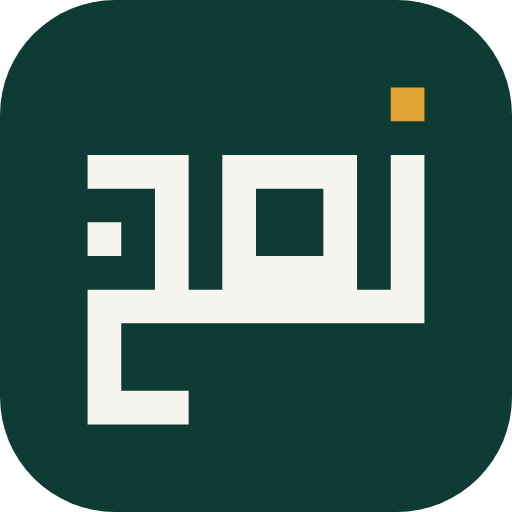
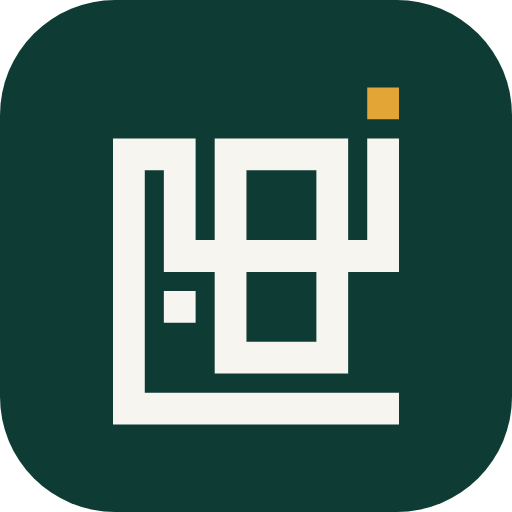
صقل الشعار: «نهج» الكوفي بالنموذج المعتمد (الجيم بذيل ممتد)
- شبكة ١١×١٣: هاء بعروتين، جيم برأس ونقطة وذيل يمتد تحت الكلمة كلها
- خطوط أعرض من الفراغات (٥:٣) ليبقى واضحاً في الأحجام الصغيرة
- brand/kufic.cjs مصدر مشترك لسكربتات الأيقونات ودليل الهوية
- إعادة توليد الأيقونات وملفات الهوية وتحديث الدليل والتوثيق

Claude-Session: https://claude.ai/code/session_01MuGSspZaMVLLvinGE7R1ud

Changed region(s): [[0.1562, 0.1562, 0.8438, 0.8438]]

diff --git a/brand/guide.html b/brand/guide.html
@@ -80,7 +80,7 @@ footer { padding-block: 32px 48px; border-top: 1px solid var(--line); color: var
 </style>
 
 <header class="hero"><div class="wrap">
-  <svg viewBox="0 0 146.7 64" class="lockup"><g transform="translate(0 2.6) scale(0.5888)"><path d="M0.23 46.28 1.02 47.06C4.54 46.2 6.66 45.73 11.35 45.73C14.96 45.73 18.4 45.97 21.61 46.36C8.69 51.84 0 60.69 0 73.69C0 91.39 15.97 100 30.62 100L49.33 87.86V86.3H31.71C13 86.3 1.64 82.69 1.64 73.77C1.64 62.65 19.26 52.08 37.12 49.1C36.18 52.15 35.4 55.91 35.4 59.83C35.4 68.99 39.78 73.3 50.04 73.3C52.55 73.3 53.88 71.97 53.88 69.46V58.5C44.48 58.5 39.78 57.56 39.31 51.37C39.31 50.67 39.31 49.8 39.31 48.79C41.27 48.55 43.15 48.39 45.11 48.32L47.69 39.08L47.22 38.06H41.66C28.03 38.06 19.5 32.18 11.98 32.18C8.14 32.18 4.93 33.75 2.51 36.49ZM30.07 71.65C30.15 71.57 30.15 70.4 30.07 70.32L22.47 62.73L14.8 70.4V71.57L22.47 79.25ZM53.95 58.5C51.45 58.5 50.12 59.83 50.12 62.33V73.3C52.39 73.3 54.5 73.06 56.54 72.67C57.71 81.68 62.1 88.72 71.42 88.72C80.19 88.72 84.65 82.22 84.26 73.3C86.77 73.3 88.1 71.97 88.1 69.46V58.5C85.9 58.5 81.21 58.26 77.29 57.95C79.33 54.19 80.5 50.2 80.5 46.2C80.5 37.67 77.53 34.77 67.27 31.48L65.31 32.5L57.01 58.42C56.15 58.5 55.21 58.5 54.35 58.5ZM59.04 58.26 63.51 44.79C67.97 46.05 78.62 49.1 78.62 51.21C78.62 52.78 71.03 57.32 59.04 58.26ZM69.07 67.19C78.15 69.15 81.52 71.1 83.24 73.61C82.3 74.08 78 75.18 73.45 75.18C68.36 75.18 63.9 73.84 61.08 71.42C64.06 70.4 66.72 68.91 69.07 67.19ZM100 4.07C100.55 3.92 100.94 3.6 101.25 3.21L103.29 0.39L102.98 0L88.8 4.31C88.25 4.46 87.86 4.78 87.47 5.09L85.59 7.36L85.83 7.67ZM84.34 73.3C88.57 73.3 94.44 71.97 98.9 69.38L102.82 58.89C104.07 55.6 104.7 52.39 104.62 49.18L106.42 44.95L99.53 35.16H97.96L92.48 48.16C96.01 50.74 99.92 54.5 102.11 57.24C97.96 58.03 92.87 58.5 88.18 58.5C85.67 58.5 84.34 59.83 84.34 62.33ZM102.19 22.4C102.27 22.32 102.27 21.14 102.19 21.06L94.6 13.47L86.92 21.14V22.32L94.6 29.99Z" fill="#FFFFFF"/></g><g transform="translate(82.7 0) scale(6.4)"><path d="M0 2h3v1h-3zM4 2h4v1h-4zM9 2h1v1h-1zM2 3h1v1h-1zM4 3h1v1h-1zM7 3h1v1h-1zM9 3h1v1h-1zM0 4h1v1h-1zM2 4h1v1h-1zM4 4h1v1h-1zM7 4h1v1h-1zM9 4h1v1h-1zM2 5h1v1h-1zM4 5h4v1h-4zM9 5h1v1h-1zM0 6h10v1h-10zM0 7h1v1h-1zM0 8h1v1h-1zM0 9h3v1h-3z" fill="#FFFFFF"/><path d="M9 0h1v1h-1z" fill="#E3A535"/></g></svg>
+  <svg viewBox="0 0 146.7 64" class="lockup"><g transform="translate(0 2.6) scale(0.5888)"><path d="M0.23 46.28 1.02 47.06C4.54 46.2 6.66 45.73 11.35 45.73C14.96 45.73 18.4 45.97 21.61 46.36C8.69 51.84 0 60.69 0 73.69C0 91.39 15.97 100 30.62 100L49.33 87.86V86.3H31.71C13 86.3 1.64 82.69 1.64 73.77C1.64 62.65 19.26 52.08 37.12 49.1C36.18 52.15 35.4 55.91 35.4 59.83C35.4 68.99 39.78 73.3 50.04 73.3C52.55 73.3 53.88 71.97 53.88 69.46V58.5C44.48 58.5 39.78 57.56 39.31 51.37C39.31 50.67 39.31 49.8 39.31 48.79C41.27 48.55 43.15 48.39 45.11 48.32L47.69 39.08L47.22 38.06H41.66C28.03 38.06 19.5 32.18 11.98 32.18C8.14 32.18 4.93 33.75 2.51 36.49ZM30.07 71.65C30.15 71.57 30.15 70.4 30.07 70.32L22.47 62.73L14.8 70.4V71.57L22.47 79.25ZM53.95 58.5C51.45 58.5 50.12 59.83 50.12 62.33V73.3C52.39 73.3 54.5 73.06 56.54 72.67C57.71 81.68 62.1 88.72 71.42 88.72C80.19 88.72 84.65 82.22 84.26 73.3C86.77 73.3 88.1 71.97 88.1 69.46V58.5C85.9 58.5 81.21 58.26 77.29 57.95C79.33 54.19 80.5 50.2 80.5 46.2C80.5 37.67 77.53 34.77 67.27 31.48L65.31 32.5L57.01 58.42C56.15 58.5 55.21 58.5 54.35 58.5ZM59.04 58.26 63.51 44.79C67.97 46.05 78.62 49.1 78.62 51.21C78.62 52.78 71.03 57.32 59.04 58.26ZM69.07 67.19C78.15 69.15 81.52 71.1 83.24 73.61C82.3 74.08 78 75.18 73.45 75.18C68.36 75.18 63.9 73.84 61.08 71.42C64.06 70.4 66.72 68.91 69.07 67.19ZM100 4.07C100.55 3.92 100.94 3.6 101.25 3.21L103.29 0.39L102.98 0L88.8 4.31C88.25 4.46 87.86 4.78 87.47 5.09L85.59 7.36L85.83 7.67ZM84.34 73.3C88.57 73.3 94.44 71.97 98.9 69.38L102.82 58.89C104.07 55.6 104.7 52.39 104.62 49.18L106.42 44.95L99.53 35.16H97.96L92.48 48.16C96.01 50.74 99.92 54.5 102.11 57.24C97.96 58.03 92.87 58.5 88.18 58.5C85.67 58.5 84.34 59.83 84.34 62.33ZM102.19 22.4C102.27 22.32 102.27 21.14 102.19 21.06L94.6 13.47L86.92 21.14V22.32L94.6 29.99Z" fill="#FFFFFF"/></g><g transform="translate(82.7 0) scale(6.4)"><path d="M0.7547 1.5094H3.2075V2.4528H0.7547zM3.7736 1.5094H7.7358V2.4528H3.7736zM8.3019 1.5094H9.2453V2.4528H8.3019zM0.7547 2.4528H1.6981V3.0189H0.7547zM2.2642 2.4528H3.2075V3.0189H2.2642zM3.7736 2.4528H4.717V3.0189H3.7736zM6.7925 2.4528H7.7358V3.0189H6.7925zM8.3019 2.4528H9.2453V3.0189H8.3019zM0.7547 3.0189H1.6981V3.9623H0.7547zM2.2642 3.0189H3.2075V3.9623H2.2642zM3.7736 3.0189H4.717V3.9623H3.7736zM6.7925 3.0189H7.7358V3.9623H6.7925zM8.3019 3.0189H9.2453V3.9623H8.3019zM0.7547 3.9623H1.6981V4.5283H0.7547zM2.2642 3.9623H3.2075V4.5283H2.2642zM3.7736 3.9623H4.717V4.5283H3.7736zM6.7925 3.9623H7.7358V4.5283H6.7925zM8.3019 3.9623H9.2453V4.5283H8.3019zM0.7547 4.5283H1.6981V5.4717H0.7547zM2.2642 4.5283H9.2453V5.4717H2.2642zM0.7547 5.4717H1.6981V6.0377H0.7547zM3.7736 5.4717H4.717V6.0377H3.7736zM6.7925 5.4717H7.7358V6.0377H6.7925zM0.7547 6.0377H1.6981V6.9811H0.7547zM2.2642 6.0377H3.2075V6.9811H2.2642zM3.7736 6.0377H4.717V6.9811H3.7736zM6.7925 6.0377H7.7358V6.9811H6.7925zM0.7547 6.9811H1.6981V7.5472H0.7547zM3.7736 6.9811H4.717V7.5472H3.7736zM6.7925 6.9811H7.7358V7.5472H6.7925zM0.7547 7.5472H1.6981V8.4906H0.7547zM3.7736 7.5472H7.7358V8.4906H3.7736zM0.7547 8.4906H1.6981V9.0566H0.7547zM0.7547 9.0566H9.2453V10H0.7547z" fill="#FFFFFF"/><path d="M8.3019 0H9.2453V0.9434H8.3019z" fill="#E3A535"/></g></svg>
   <div class="tag">التدريس <span>بنهجٍ أذكى.</span></div>
   <p>دليل الهوية البصرية لتطبيق «نَهج»، رفيق المدرّس العراقي: الصفوف والطلاب، سجلات الدرجات، الحضور، الجدول، دفتر التحضير، والطباعة الرسمية.</p>
 </div></header>
@@ -94,12 +94,12 @@ footer { padding-block: 32px 48px; border-top: 1px solid var(--line); color: var
   <section>
     <h2>الرمز</h2>
     <div class="anatomy">
-      <div class="big"><svg viewBox="-0.8 -0.8 11.6 11.6" class="gridmark"><path d="M0 0V10M0 0H10" stroke="var(--line)" stroke-width="0.04"/><path d="M1 0V10M0 1H10" stroke="var(--line)" stroke-width="0.04"/><path d="M2 0V10M0 2H10" stroke="var(--line)" stroke-width="0.04"/><path d="M3 0V10M0 3H10" stroke="var(--line)" stroke-width="0.04"/><path d="M4 0V10M0 4H10" stroke="var(--line)" stroke-width="0.04"/><path d="M5 0V10M0 5H10" stroke="var(--line)" stroke-width="0.04"/><path d="M6 0V10M0 6H10" stroke="var(--line)" stroke-width="0.04"/><path d="M7 0V10M0 7H10" stroke="var(--line)" stroke-width="0.04"/><path d="M8 0V10M0 8H10" stroke="var(--line)" stroke-width="0.04"/><path d="M9 0V10M0 9H10" stroke="var(--line)" stroke-width="0.04"/><path d="M10 0V10M0 10H10" stroke="var(--line)" stroke-width="0.04"/><path d="M0 2h3v1h-3zM4 2h4v1h-4zM9 2h1v1h-1zM2 3h1v1h-1zM4 3h1v1h-1zM7 3h1v1h-1zM9 3h1v1h-1zM0 4h1v1h-1zM2 4h1v1h-1zM4 4h1v1h-1zM7 4h1v1h-1zM9 4h1v1h-1zM2 5h1v1h-1zM4 5h4v1h-4zM9 5h1v1h-1zM0 6h10v1h-10zM0 7h1v1h-1zM0 8h1v1h-1zM0 9h3v1h-3z" fill="var(--ink)" opacity=".92"/><path d="M9 0h1v1h-1z" fill="#E3A535"/>
-  <path d="M-0.4 6.5H10.4" stroke="#E3A535" stroke-width="0.08" stroke-dasharray="0.25 0.18"/></svg></div>
+      <div class="big"><svg viewBox="-0.8 -0.8 11.6 11.6" class="gridmark"><path d="M0.7547 0V10" stroke="var(--line)" stroke-width="0.04"/><path d="M1.6981 0V10" stroke="var(--line)" stroke-width="0.04"/><path d="M2.2642 0V10" stroke="var(--line)" stroke-width="0.04"/><path d="M3.2075 0V10" stroke="var(--line)" stroke-width="0.04"/><path d="M3.7736 0V10" stroke="var(--line)" stroke-width="0.04"/><path d="M4.717 0V10" stroke="var(--line)" stroke-width="0.04"/><path d="M5.283 0V10" stroke="var(--line)" stroke-width="0.04"/><path d="M6.2264 0V10" stroke="var(--line)" stroke-width="0.04"/><path d="M6.7925 0V10" stroke="var(--line)" stroke-width="0.04"/><path d="M7.7358 0V10" stroke="var(--line)" stroke-width="0.04"/><path d="M8.3019 0V10" stroke="var(--line)" stroke-width="0.04"/><path d="M9.2453 0V10" stroke="var(--line)" stroke-width="0.04"/><path d="M0.7547 0H9.2453" stroke="var(--line)" stroke-width="0.04"/><path d="M0.7547 0.9434H9.2453" stroke="var(--line)" stroke-width="0.04"/><path d="M0.7547 1.5094H9.2453" stroke="var(--line)" stroke-width="0.04"/><path d="M0.7547 2.4528H9.2453" stroke="var(--line)" stroke-width="0.04"/><path d="M0.7547 3.0189H9.2453" stroke="var(--line)" stroke-width="0.04"/><path d="M0.7547 3.9623H9.2453" stroke="var(--line)" stroke-width="0.04"/><path d="M0.7547 4.5283H9.2453" stroke="var(--line)" stroke-width="0.04"/><path d="M0.7547 5.4717H9.2453" stroke="var(--line)" stroke-width="0.04"/><path d="M0.7547 6.0377H9.2453" stroke="var(--line)" stroke-width="0.04"/><path d="M0.7547 6.9811H9.2453" stroke="var(--line)" stroke-width="0.04"/><path d="M0.7547 7.5472H9.2453" stroke="var(--line)" stroke-width="0.04"/><path d="M0.7547 8.4906H9.2453" stroke="var(--line)" stroke-width="0.04"/><path d="M0.7547 9.0566H9.2453" stroke="var(--line)" stroke-width="0.04"/><path d="M0.7547 10H9.2453" stroke="var(--line)" stroke-width="0.04"/><path d="M0.7547 1.5094H3.2075V2.4528H0.7547zM3.7736 1.5094H7.7358V2.4528H3.7736zM8.3019 1.5094H9.2453V2.4528H8.3019zM0.7547 2.4528H1.6981V3.0189H0.7547zM2.2642 2.4528H3.2075V3.0189H2.2642zM3.7736 2.4528H4.717V3.0189H3.7736zM6.7925 2.4528H7.7358V3.0189H6.7925zM8.3019 2.4528H9.2453V3.0189H8.3019zM0.7547 3.0189H1.6981V3.9623H0.7547zM2.2642 3.0189H3.2075V3.9623H2.2642zM3.7736 3.0189H4.717V3.9623H3.7736zM6.7925 3.0189H7.7358V3.9623H6.7925zM8.3019 3.0189H9.2453V3.9623H8.3019zM0.7547 3.9623H1.6981V4.5283H0.7547zM2.2642 3.9623H3.2075V4.5283H2.2642zM3.7736 3.9623H4.717V4.5283H3.7736zM6.7925 3.9623H7.7358V4.5283H6.7925zM8.3019 3.9623H9.2453V4.5283H8.3019zM0.7547 4.5283H1.6981V5.4717H0.7547zM2.2642 4.5283H9.2453V5.4717H2.2642zM0.7547 5.4717H1.6981V6.0377H0.7547zM3.7736 5.4717H4.717V6.0377H3.7736zM6.7925 5.4717H7.7358V6.0377H6.7925zM0.7547 6.0377H1.6981V6.9811H0.7547zM2.2642 6.0377H3.2075V6.9811H2.2642zM3.7736 6.0377H4.717V6.9811H3.7736zM6.7925 6.0377H7.7358V6.9811H6.7925zM0.7547 6.9811H1.6981V7.5472H0.7547zM3.7736 6.9811H4.717V7.5472H3.7736zM6.7925 6.9811H7.7358V7.5472H6.7925zM0.7547 7.5472H1.6981V8.4906H0.7547zM3.7736 7.5472H7.7358V8.4906H3.7736zM0.7547 8.4906H1.6981V9.0566H0.7547zM0.7547 9.0566H9.2453V10H0.7547z" fill="var(--ink)" opacity=".92"/><path d="M8.3019 0H9.2453V0.9434H8.3019z" fill="#E3A535"/>
+  <path d="M0.3547 5H9.6453M0.3547 9.5283H9.6453" stroke="#E3A535" stroke-width="0.08" stroke-dasharray="0.25 0.18"/></svg></div>
       <ol>
         <li><b>١</b><div><strong>الخط الكوفي — من العراق</strong>وُلد الخط الكوفي في الكوفة، أقدم خطوط العربية. شعار تطبيق عراقي بخط عراقي الأصل.</div></li>
-        <li><b>٢</b><div><strong>الكلمة كاملة على شبكة</strong>«نهج» بالكوفي المربّع على شبكة ١٠×١٠ — مثل سجل الدرجات وجدول الحصص: كل حرف في خانته، وكل شيء في مكانه.</div></li>
-        <li><b>٣</b><div><strong>خط القاعدة هو النهج</strong>الخط الممتد تحت الحروف الثلاثة (المنقّط بالذهبي في الرسم) يربطها في سطر واحد: الطريق الذي يجمع عمل المدرّس كله.</div></li>
+        <li><b>٢</b><div><strong>الكلمة كاملة على شبكة</strong>«نهج» بالكوفي المربّع على شبكة ١١×١٣ — مثل سجل الدرجات وجدول الحصص: كل حرف في خانته. النون قائمة، والهاء بعروتين فوق القاعدة وتحتها، والجيم برأسها ونقطتها وذيل يمتد تحت الكلمة كلها. الخطوط أعرض من الفراغات (٥ إلى ٣) فيبقى الرمز واضحاً حتى في أصغر أيقونة.</div></li>
+        <li><b>٣</b><div><strong>خط القاعدة هو النهج</strong>خطّا القاعدة (المنقّطان بالذهبي في الرسم): الأول يربط الحروف الثلاثة في سطر واحد، والثاني ذيل الجيم يحمل الكلمة كلها: الطريق الذي يجمع عمل المدرّس كله.</div></li>
         <li><b>٤</b><div><strong>خلية ذهبية واحدة</strong>نقطة النون هي الخانة الوحيدة المضيئة في الشبكة — الدرجة التي تُكتب، والحصة الحاضرة. وهي توقيع الهوية كلها: في الأيقونات وقبل العناوين.</div></li>
       </ol>
     </div>
@@ -108,10 +108,10 @@ footer { padding-block: 32px 48px; border-top: 1px solid var(--line); color: var
   <section>
     <h2>الشعار</h2>
     <div class="logos">
-      <div class="logo-tile t-paper"><svg viewBox="0 0 146.7 64" class="lockup"><g transform="translate(0 2.6) scale(0.5888)"><path d="M0.23 46.28 1.02 47.06C4.54 46.2 6.66 45.73 11.35 45.73C14.96 45.73 18.4 45.97 21.61 46.36C8.69 51.84 0 60.69 0 73.69C0 91.39 15.97 100 30.62 100L49.33 87.86V86.3H31.71C13 86.3 1.64 82.69 1.64 73.77C1.64 62.65 19.26 52.08 37.12 49.1C36.18 52.15 35.4 55.91 35.4 59.83C35.4 68.99 39.78 73.3 50.04 73.3C52.55 73.3 53.88 71.97 53.88 69.46V58.5C44.48 58.5 39.78 57.56 39.31 51.37C39.31 50.67 39.31 49.8 39.31 48.79C41.27 48.55 43.15 48.39 45.11 48.32L47.69 39.08L47.22 38.06H41.66C28.03 38.06 19.5 32.18 11.98 32.18C8.14 32.18 4.93 33.75 2.51 36.49ZM30.07 71.65C30.15 71.57 30.15 70.4 30.07 70.32L22.47 62.73L14.8 70.4V71.57L22.47 79.25ZM53.95 58.5C51.45 58.5 50.12 59.83 50.12 62.33V73.3C52.39 73.3 54.5 73.06 56.54 72.67C57.71 81.68 62.1 88.72 71.42 88.72C80.19 88.72 84.65 82.22 84.26 73.3C86.77 73.3 88.1 71.97 88.1 69.46V58.5C85.9 58.5 81.21 58.26 77.29 57.95C79.33 54.19 80.5 50.2 80.5 46.2C80.5 37.67 77.53 34.77 67.27 31.48L65.31 32.5L57.01 58.42C56.15 58.5 55.21 58.5 54.35 58.5ZM59.04 58.26 63.51 44.79C67.97 46.05 78.62 49.1 78.62 51.21C78.62 52.78 71.03 57.32 59.04 58.26ZM69.07 67.19C78.15 69.15 81.52 71.1 83.24 73.61C82.3 74.08 78 75.18 73.45 75.18C68.36 75.18 63.9 73.84 61.08 71.42C64.06 70.4 66.72 68.91 69.07 67.19ZM100 4.07C100.55 3.92 100.94 3.6 101.25 3.21L103.29 0.39L102.98 0L88.8 4.31C88.25 4.46 87.86 4.78 87.47 5.09L85.59 7.36L85.83 7.67ZM84.34 73.3C88.57 73.3 94.44 71.97 98.9 69.38L102.82 58.89C104.07 55.6 104.7 52.39 104.62 49.18L106.42 44.95L99.53 35.16H97.96L92.48 48.16C96.01 50.74 99.92 54.5 102.11 57.24C97.96 58.03 92.87 58.5 88.18 58.5C85.67 58.5 84.34 59.83 84.34 62.33ZM102.19 22.4C102.27 22.32 102.27 21.14 102.19 21.06L94.6 13.47L86.92 21.14V22.32L94.6 29.99Z" fill="#0E3B33"/></g><g transform="translate(82.7 0) scale(6.4)"><path d="M0 2h3v1h-3zM4 2h4v1h-4zM9 2h1v1h-1zM2 3h1v1h-1zM4 3h1v1h-1zM7 3h1v1h-1zM9 3h1v1h-1zM0 4h1v1h-1zM2 4h1v1h-1zM4 4h1v1h-1zM7 4h1v1h-1zM9 4h1v1h-1zM2 5h1v1h-1zM4 5h4v1h-4zM9 5h1v1h-1zM0 6h10v1h-10zM0 7h1v1h-1zM0 8h1v1h-1zM0 9h3v1h-3z" fill="#0E3B33"/><path d="M9 0h1v1h-1z" fill="#E3A535"/></g></svg><div class="cap">الأساسي — على الورق</div></div>
-      <div class="logo-tile t-green"><svg viewBox="0 0 146.7 64" class="lockup"><g transform="translate(0 2.6) scale(0.5888)"><path d="M0.23 46.28 1.02 47.06C4.54 46.2 6.66 45.73 11.35 45.73C14.96 45.73 18.4 45.97 21.61 46.36C8.69 51.84 0 60.69 0 73.69C0 91.39 15.97 100 30.62 100L49.33 87.86V86.3H31.71C13 86.3 1.64 82.69 1.64 73.77C1.64 62.65 19.26 52.08 37.12 49.1C36.18 52.15 35.4 55.91 35.4 59.83C35.4 68.99 39.78 73.3 50.04 73.3C52.55 73.3 53.88 71.97 53.88 69.46V58.5C44.48 58.5 39.78 57.56 39.31 51.37C39.31 50.67 39.31 49.8 39.31 48.79C41.27 48.55 43.15 48.39 45.11 48.32L47.69 39.08L47.22 38.06H41.66C28.03 38.06 19.5 32.18 11.98 32.18C8.14 32.18 4.93 33.75 2.51 36.49ZM30.07 71.65C30.15 71.57 30.15 70.4 30.07 70.32L22.47 62.73L14.8 70.4V71.57L22.47 79.25ZM53.95 58.5C51.45 58.5 50.12 59.83 50.12 62.33V73.3C52.39 73.3 54.5 73.06 56.54 72.67C57.71 81.68 62.1 88.72 71.42 88.72C80.19 88.72 84.65 82.22 84.26 73.3C86.77 73.3 88.1 71.97 88.1 69.46V58.5C85.9 58.5 81.21 58.26 77.29 57.95C79.33 54.19 80.5 50.2 80.5 46.2C80.5 37.67 77.53 34.77 67.27 31.48L65.31 32.5L57.01 58.42C56.15 58.5 55.21 58.5 54.35 58.5ZM59.04 58.26 63.51 44.79C67.97 46.05 78.62 49.1 78.62 51.21C78.62 52.78 71.03 57.32 59.04 58.26ZM69.07 67.19C78.15 69.15 81.52 71.1 83.24 73.61C82.3 74.08 78 75.18 73.45 75.18C68.36 75.18 63.9 73.84 61.08 71.42C64.06 70.4 66.72 68.91 69.07 67.19ZM100 4.07C100.55 3.92 100.94 3.6 101.25 3.21L103.29 0.39L102.98 0L88.8 4.31C88.25 4.46 87.86 4.78 87.47 5.09L85.59 7.36L85.83 7.67ZM84.34 73.3C88.57 73.3 94.44 71.97 98.9 69.38L102.82 58.89C104.07 55.6 104.7 52.39 104.62 49.18L106.42 44.95L99.53 35.16H97.96L92.48 48.16C96.01 50.74 99.92 54.5 102.11 57.24C97.96 58.03 92.87 58.5 88.18 58.5C85.67 58.5 84.34 59.83 84.34 62.33ZM102.19 22.4C102.27 22.32 102.27 21.14 102.19 21.06L94.6 13.47L86.92 21.14V22.32L94.6 29.99Z" fill="#FFFFFF"/></g><g transform="translate(82.7 0) scale(6.4)"><path d="M0 2h3v1h-3zM4 2h4v1h-4zM9 2h1v1h-1zM2 3h1v1h-1zM4 3h1v1h-1zM7 3h1v1h-1zM9 3h1v1h-1zM0 4h1v1h-1zM2 4h1v1h-1zM4 4h1v1h-1zM7 4h1v1h-1zM9 4h1v1h-1zM2 5h1v1h-1zM4 5h4v1h-4zM9 5h1v1h-1zM0 6h10v1h-10zM0 7h1v1h-1zM0 8h1v1h-1zM0 9h3v1h-3z" fill="#FFFFFF"/><path d="M9 0h1v1h-1z" fill="#E3A535"/></g></svg><div class="cap">المعكوس — على الأخضر</div></div>
-      <div class="logo-tile t-card"><div class="m"><svg viewBox="-2.6 -2.6 15.2 15.2"><rect x="-2.6" y="-2.6" width="15.2" height="15.2" rx="3.42" fill="#0E3B33"/><path d="M0 2h3v1h-3zM4 2h4v1h-4zM9 2h1v1h-1zM2 3h1v1h-1zM4 3h1v1h-1zM7 3h1v1h-1zM9 3h1v1h-1zM0 4h1v1h-1zM2 4h1v1h-1zM4 4h1v1h-1zM7 4h1v1h-1zM9 4h1v1h-1zM2 5h1v1h-1zM4 5h4v1h-4zM9 5h1v1h-1zM0 6h10v1h-10zM0 7h1v1h-1zM0 8h1v1h-1zM0 9h3v1h-3z" fill="#F7F5F0"/><path d="M9 0h1v1h-1z" fill="#E3A535"/></svg></div><div class="cap">أيقونة التطبيق</div></div>
-      <div class="logo-tile t-paper"><div class="m"><svg viewBox="-0.6 -0.6 11.2 11.2" ><path d="M0 2h3v1h-3zM4 2h4v1h-4zM9 2h1v1h-1zM2 3h1v1h-1zM4 3h1v1h-1zM7 3h1v1h-1zM9 3h1v1h-1zM0 4h1v1h-1zM2 4h1v1h-1zM4 4h1v1h-1zM7 4h1v1h-1zM9 4h1v1h-1zM2 5h1v1h-1zM4 5h4v1h-4zM9 5h1v1h-1zM0 6h10v1h-10zM0 7h1v1h-1zM0 8h1v1h-1zM0 9h3v1h-3z" fill="#0E3B33"/><path d="M9 0h1v1h-1z" fill="#E3A535"/></svg></div><div class="cap">الرمز وحده</div></div>
+      <div class="logo-tile t-paper"><svg viewBox="0 0 146.7 64" class="lockup"><g transform="translate(0 2.6) scale(0.5888)"><path d="M0.23 46.28 1.02 47.06C4.54 46.2 6.66 45.73 11.35 45.73C14.96 45.73 18.4 45.97 21.61 46.36C8.69 51.84 0 60.69 0 73.69C0 91.39 15.97 100 30.62 100L49.33 87.86V86.3H31.71C13 86.3 1.64 82.69 1.64 73.77C1.64 62.65 19.26 52.08 37.12 49.1C36.18 52.15 35.4 55.91 35.4 59.83C35.4 68.99 39.78 73.3 50.04 73.3C52.55 73.3 53.88 71.97 53.88 69.46V58.5C44.48 58.5 39.78 57.56 39.31 51.37C39.31 50.67 39.31 49.8 39.31 48.79C41.27 48.55 43.15 48.39 45.11 48.32L47.69 39.08L47.22 38.06H41.66C28.03 38.06 19.5 32.18 11.98 32.18C8.14 32.18 4.93 33.75 2.51 36.49ZM30.07 71.65C30.15 71.57 30.15 70.4 30.07 70.32L22.47 62.73L14.8 70.4V71.57L22.47 79.25ZM53.95 58.5C51.45 58.5 50.12 59.83 50.12 62.33V73.3C52.39 73.3 54.5 73.06 56.54 72.67C57.71 81.68 62.1 88.72 71.42 88.72C80.19 88.72 84.65 82.22 84.26 73.3C86.77 73.3 88.1 71.97 88.1 69.46V58.5C85.9 58.5 81.21 58.26 77.29 57.95C79.33 54.19 80.5 50.2 80.5 46.2C80.5 37.67 77.53 34.77 67.27 31.48L65.31 32.5L57.01 58.42C56.15 58.5 55.21 58.5 54.35 58.5ZM59.04 58.26 63.51 44.79C67.97 46.05 78.62 49.1 78.62 51.21C78.62 52.78 71.03 57.32 59.04 58.26ZM69.07 67.19C78.15 69.15 81.52 71.1 83.24 73.61C82.3 74.08 78 75.18 73.45 75.18C68.36 75.18 63.9 73.84 61.08 71.42C64.06 70.4 66.72 68.91 69.07 67.19ZM100 4.07C100.55 3.92 100.94 3.6 101.25 3.21L103.29 0.39L102.98 0L88.8 4.31C88.25 4.46 87.86 4.78 87.47 5.09L85.59 7.36L85.83 7.67ZM84.34 73.3C88.57 73.3 94.44 71.97 98.9 69.38L102.82 58.89C104.07 55.6 104.7 52.39 104.62 49.18L106.42 44.95L99.53 35.16H97.96L92.48 48.16C96.01 50.74 99.92 54.5 102.11 57.24C97.96 58.03 92.87 58.5 88.18 58.5C85.67 58.5 84.34 59.83 84.34 62.33ZM102.19 22.4C102.27 22.32 102.27 21.14 102.19 21.06L94.6 13.47L86.92 21.14V22.32L94.6 29.99Z" fill="#0E3B33"/></g><g transform="translate(82.7 0) scale(6.4)"><path d="M0.7547 1.5094H3.2075V2.4528H0.7547zM3.7736 1.5094H7.7358V2.4528H3.7736zM8.3019 1.5094H9.2453V2.4528H8.3019zM0.7547 2.4528H1.6981V3.0189H0.7547zM2.2642 2.4528H3.2075V3.0189H2.2642zM3.7736 2.4528H4.717V3.0189H3.7736zM6.7925 2.4528H7.7358V3.0189H6.7925zM8.3019 2.4528H9.2453V3.0189H8.3019zM0.7547 3.0189H1.6981V3.9623H0.7547zM2.2642 3.0189H3.2075V3.9623H2.2642zM3.7736 3.0189H4.717V3.9623H3.7736zM6.7925 3.0189H7.7358V3.9623H6.7925zM8.3019 3.0189H9.2453V3.9623H8.3019zM0.7547 3.9623H1.6981V4.5283H0.7547zM2.2642 3.9623H3.2075V4.5283H2.2642zM3.7736 3.9623H4.717V4.5283H3.7736zM6.7925 3.9623H7.7358V4.5283H6.7925zM8.3019 3.9623H9.2453V4.5283H8.3019zM0.7547 4.5283H1.6981V5.4717H0.7547zM2.2642 4.5283H9.2453V5.4717H2.2642zM0.7547 5.4717H1.6981V6.0377H0.7547zM3.7736 5.4717H4.717V6.0377H3.7736zM6.7925 5.4717H7.7358V6.0377H6.7925zM0.7547 6.0377H1.6981V6.9811H0.7547zM2.2642 6.0377H3.2075V6.9811H2.2642zM3.7736 6.0377H4.717V6.9811H3.7736zM6.7925 6.0377H7.7358V6.9811H6.7925zM0.7547 6.9811H1.6981V7.5472H0.7547zM3.7736 6.9811H4.717V7.5472H3.7736zM6.7925 6.9811H7.7358V7.5472H6.7925zM0.7547 7.5472H1.6981V8.4906H0.7547zM3.7736 7.5472H7.7358V8.4906H3.7736zM0.7547 8.4906H1.6981V9.0566H0.7547zM0.7547 9.0566H9.2453V10H0.7547z" fill="#0E3B33"/><path d="M8.3019 0H9.2453V0.9434H8.3019z" fill="#E3A535"/></g></svg><div class="cap">الأساسي — على الورق</div></div>
+      <div class="logo-tile t-green"><svg viewBox="0 0 146.7 64" class="lockup"><g transform="translate(0 2.6) scale(0.5888)"><path d="M0.23 46.28 1.02 47.06C4.54 46.2 6.66 45.73 11.35 45.73C14.96 45.73 18.4 45.97 21.61 46.36C8.69 51.84 0 60.69 0 73.69C0 91.39 15.97 100 30.62 100L49.33 87.86V86.3H31.71C13 86.3 1.64 82.69 1.64 73.77C1.64 62.65 19.26 52.08 37.12 49.1C36.18 52.15 35.4 55.91 35.4 59.83C35.4 68.99 39.78 73.3 50.04 73.3C52.55 73.3 53.88 71.97 53.88 69.46V58.5C44.48 58.5 39.78 57.56 39.31 51.37C39.31 50.67 39.31 49.8 39.31 48.79C41.27 48.55 43.15 48.39 45.11 48.32L47.69 39.08L47.22 38.06H41.66C28.03 38.06 19.5 32.18 11.98 32.18C8.14 32.18 4.93 33.75 2.51 36.49ZM30.07 71.65C30.15 71.57 30.15 70.4 30.07 70.32L22.47 62.73L14.8 70.4V71.57L22.47 79.25ZM53.95 58.5C51.45 58.5 50.12 59.83 50.12 62.33V73.3C52.39 73.3 54.5 73.06 56.54 72.67C57.71 81.68 62.1 88.72 71.42 88.72C80.19 88.72 84.65 82.22 84.26 73.3C86.77 73.3 88.1 71.97 88.1 69.46V58.5C85.9 58.5 81.21 58.26 77.29 57.95C79.33 54.19 80.5 50.2 80.5 46.2C80.5 37.67 77.53 34.77 67.27 31.48L65.31 32.5L57.01 58.42C56.15 58.5 55.21 58.5 54.35 58.5ZM59.04 58.26 63.51 44.79C67.97 46.05 78.62 49.1 78.62 51.21C78.62 52.78 71.03 57.32 59.04 58.26ZM69.07 67.19C78.15 69.15 81.52 71.1 83.24 73.61C82.3 74.08 78 75.18 73.45 75.18C68.36 75.18 63.9 73.84 61.08 71.42C64.06 70.4 66.72 68.91 69.07 67.19ZM100 4.07C100.55 3.92 100.94 3.6 101.25 3.21L103.29 0.39L102.98 0L88.8 4.31C88.25 4.46 87.86 4.78 87.47 5.09L85.59 7.36L85.83 7.67ZM84.34 73.3C88.57 73.3 94.44 71.97 98.9 69.38L102.82 58.89C104.07 55.6 104.7 52.39 104.62 49.18L106.42 44.95L99.53 35.16H97.96L92.48 48.16C96.01 50.74 99.92 54.5 102.11 57.24C97.96 58.03 92.87 58.5 88.18 58.5C85.67 58.5 84.34 59.83 84.34 62.33ZM102.19 22.4C102.27 22.32 102.27 21.14 102.19 21.06L94.6 13.47L86.92 21.14V22.32L94.6 29.99Z" fill="#FFFFFF"/></g><g transform="translate(82.7 0) scale(6.4)"><path d="M0.7547 1.5094H3.2075V2.4528H0.7547zM3.7736 1.5094H7.7358V2.4528H3.7736zM8.3019 1.5094H9.2453V2.4528H8.3019zM0.7547 2.4528H1.6981V3.0189H0.7547zM2.2642 2.4528H3.2075V3.0189H2.2642zM3.7736 2.4528H4.717V3.0189H3.7736zM6.7925 2.4528H7.7358V3.0189H6.7925zM8.3019 2.4528H9.2453V3.0189H8.3019zM0.7547 3.0189H1.6981V3.9623H0.7547zM2.2642 3.0189H3.2075V3.9623H2.2642zM3.7736 3.0189H4.717V3.9623H3.7736zM6.7925 3.0189H7.7358V3.9623H6.7925zM8.3019 3.0189H9.2453V3.9623H8.3019zM0.7547 3.9623H1.6981V4.5283H0.7547zM2.2642 3.9623H3.2075V4.5283H2.2642zM3.7736 3.9623H4.717V4.5283H3.7736zM6.7925 3.9623H7.7358V4.5283H6.7925zM8.3019 3.9623H9.2453V4.5283H8.3019zM0.7547 4.5283H1.6981V5.4717H0.7547zM2.2642 4.5283H9.2453V5.4717H2.2642zM0.7547 5.4717H1.6981V6.0377H0.7547zM3.7736 5.4717H4.717V6.0377H3.7736zM6.7925 5.4717H7.7358V6.0377H6.7925zM0.7547 6.0377H1.6981V6.9811H0.7547zM2.2642 6.0377H3.2075V6.9811H2.2642zM3.7736 6.0377H4.717V6.9811H3.7736zM6.7925 6.0377H7.7358V6.9811H6.7925zM0.7547 6.9811H1.6981V7.5472H0.7547zM3.7736 6.9811H4.717V7.5472H3.7736zM6.7925 6.9811H7.7358V7.5472H6.7925zM0.7547 7.5472H1.6981V8.4906H0.7547zM3.7736 7.5472H7.7358V8.4906H3.7736zM0.7547 8.4906H1.6981V9.0566H0.7547zM0.7547 9.0566H9.2453V10H0.7547z" fill="#FFFFFF"/><path d="M8.3019 0H9.2453V0.9434H8.3019z" fill="#E3A535"/></g></svg><div class="cap">المعكوس — على الأخضر</div></div>
+      <div class="logo-tile t-card"><div class="m"><svg viewBox="-2.6 -2.6 15.2 15.2"><rect x="-2.6" y="-2.6" width="15.2" height="15.2" rx="3.42" fill="#0E3B33"/><path d="M0.7547 1.5094H3.2075V2.4528H0.7547zM3.7736 1.5094H7.7358V2.4528H3.7736zM8.3019 1.5094H9.2453V2.4528H8.3019zM0.7547 2.4528H1.6981V3.0189H0.7547zM2.2642 2.4528H3.2075V3.0189H2.2642zM3.7736 2.4528H4.717V3.0189H3.7736zM6.7925 2.4528H7.7358V3.0189H6.7925zM8.3019 2.4528H9.2453V3.0189H8.3019zM0.7547 3.0189H1.6981V3.9623H0.7547zM2.2642 3.0189H3.2075V3.9623H2.2642zM3.7736 3.0189H4.717V3.9623H3.7736zM6.7925 3.0189H7.7358V3.9623H6.7925zM8.3019 3.0189H9.2453V3.9623H8.3019zM0.7547 3.9623H1.6981V4.5283H0.7547zM2.2642 3.9623H3.2075V4.5283H2.2642zM3.7736 3.9623H4.717V4.5283H3.7736zM6.7925 3.9623H7.7358V4.5283H6.7925zM8.3019 3.9623H9.2453V4.5283H8.3019zM0.7547 4.5283H1.6981V5.4717H0.7547zM2.2642 4.5283H9.2453V5.4717H2.2642zM0.7547 5.4717H1.6981V6.0377H0.7547zM3.7736 5.4717H4.717V6.0377H3.7736zM6.7925 5.4717H7.7358V6.0377H6.7925zM0.7547 6.0377H1.6981V6.9811H0.7547zM2.2642 6.0377H3.2075V6.9811H2.2642zM3.7736 6.0377H4.717V6.9811H3.7736zM6.7925 6.0377H7.7358V6.9811H6.7925zM0.7547 6.9811H1.6981V7.5472H0.7547zM3.7736 6.9811H4.717V7.5472H3.7736zM6.7925 6.9811H7.7358V7.5472H6.7925zM0.7547 7.5472H1.6981V8.4906H0.7547zM3.7736 7.5472H7.7358V8.4906H3.7736zM0.7547 8.4906H1.6981V9.0566H0.7547zM0.7547 9.0566H9.2453V10H0.7547z" fill="#F7F5F0"/><path d="M8.3019 0H9.2453V0.9434H8.3019z" fill="#E3A535"/></svg></div><div class="cap">أيقونة التطبيق</div></div>
+      <div class="logo-tile t-paper"><div class="m"><svg viewBox="-0.6 -0.6 11.2 11.2" ><path d="M0.7547 1.5094H3.2075V2.4528H0.7547zM3.7736 1.5094H7.7358V2.4528H3.7736zM8.3019 1.5094H9.2453V2.4528H8.3019zM0.7547 2.4528H1.6981V3.0189H0.7547zM2.2642 2.4528H3.2075V3.0189H2.2642zM3.7736 2.4528H4.717V3.0189H3.7736zM6.7925 2.4528H7.7358V3.0189H6.7925zM8.3019 2.4528H9.2453V3.0189H8.3019zM0.7547 3.0189H1.6981V3.9623H0.7547zM2.2642 3.0189H3.2075V3.9623H2.2642zM3.7736 3.0189H4.717V3.9623H3.7736zM6.7925 3.0189H7.7358V3.9623H6.7925zM8.3019 3.0189H9.2453V3.9623H8.3019zM0.7547 3.9623H1.6981V4.5283H0.7547zM2.2642 3.9623H3.2075V4.5283H2.2642zM3.7736 3.9623H4.717V4.5283H3.7736zM6.7925 3.9623H7.7358V4.5283H6.7925zM8.3019 3.9623H9.2453V4.5283H8.3019zM0.7547 4.5283H1.6981V5.4717H0.7547zM2.2642 4.5283H9.2453V5.4717H2.2642zM0.7547 5.4717H1.6981V6.0377H0.7547zM3.7736 5.4717H4.717V6.0377H3.7736zM6.7925 5.4717H7.7358V6.0377H6.7925zM0.7547 6.0377H1.6981V6.9811H0.7547zM2.2642 6.0377H3.2075V6.9811H2.2642zM3.7736 6.0377H4.717V6.9811H3.7736zM6.7925 6.0377H7.7358V6.9811H6.7925zM0.7547 6.9811H1.6981V7.5472H0.7547zM3.7736 6.9811H4.717V7.5472H3.7736zM6.7925 6.9811H7.7358V7.5472H6.7925zM0.7547 7.5472H1.6981V8.4906H0.7547zM3.7736 7.5472H7.7358V8.4906H3.7736zM0.7547 8.4906H1.6981V9.0566H0.7547zM0.7547 9.0566H9.2453V10H0.7547z" fill="#0E3B33"/><path d="M8.3019 0H9.2453V0.9434H8.3019z" fill="#E3A535"/></svg></div><div class="cap">الرمز وحده</div></div>
     </div>
     <p>المسافة الآمنة حول الشعار خليتان من شبكته على الأقل. يبقى مقروءاً حتى ١٦ بكسل لأنه مبني على الشبكة نفسها. لا يُمدّ ولا يُدوَّر ولا يُلوَّن بغير ألوان الهوية، والخلية الذهبية لا تتغير.</p>
   </section>

diff --git a/packages/shared/src/brand.ts b/packages/shared/src/brand.ts
@@ -2,28 +2,46 @@
  * هوية «نَهج» — مصدر واحد للشعار في التطبيق والأيقونات والموقع والويدجت.
  *
  * الرمز: كلمة «نهج» كاملة بالخط الكوفي المربّع (وُلد الخط الكوفي في الكوفة، في العراق)،
- * مبنية على شبكة ١٠×١٠ مثل سجل الدرجات وجدول الحصص: كل حرف في خانته.
- * خط القاعدة الممتد تحت الحروف الثلاثة هو «النهج» الذي يربط كل شيء،
+ * مبنية على شبكة ١١×١٣ مثل سجل الدرجات وجدول الحصص: كل حرف في خانته.
+ * النون قائمة، والهاء بعروتين فوق خط القاعدة وتحته (ـهـ)، والجيم برأسها ونقطتها وذيلها الممتد تحت الكلمة كلها.
+ * خط القاعدة الممتد بين الحروف هو «النهج» الذي يربط كل شيء،
  * وخلية ذهبية واحدة — نقطة النون — هي الخانة المضيئة في السجل.
  *
  * '#' خلية بلون الحبر، 'o' الخلية الذهبية، '.' فراغ. الأعمدة من اليسار لليمين (الكلمة تُقرأ من اليمين).
+ * المسارات الزوجية خطوط بسماكة KUFIC_LANES.stroke والفردية فراغات بسماكة KUFIC_LANES.gap،
+ * فيبدو الرمز ثقيلاً واضحاً، ثم يُقاس كله إلى مربع ١٠×١٠ (KUFIC_SIZE) ويوسَّط فيه.
  */
 export const KUFIC: readonly string[] = [
-  '.........o',
-  '..........',
-  '###.####.#',
-  '..#.#..#.#',
-  '#.#.#..#.#',
-  '..#.####.#',
-  '##########',
-  '#.........',
-  '#.........',
-  '###.......',
+  '..........o',
+  '...........',
+  '###.#####.#',
+  '#.#.#...#.#',
+  '#.#.#...#.#',
+  '#.#.#...#.#',
+  '#.#########',
+  '#...#...#..',
+  '#.#.#...#..',
+  '#...#...#..',
+  '#...#####..',
+  '#..........',
+  '###########',
 ];
+export const KUFIC_LANES = { stroke: 5, gap: 3 } as const;
 export const KUFIC_SIZE = 10;
 
-/** مسارات SVG للرمز (الخلايا المتجاورة مدموجة حتى لا تظهر فواصل عند التصغير)، بوحدة الخلية */
+/** حدود المسارات (أعمدة وصفوف) بعد قياس الرمز إلى مربع KUFIC_SIZE وتوسيطه فيه */
+export function kuficLanes(rows: readonly string[] = KUFIC): { x: number[]; y: number[] } {
+  const acc = (n: number) => { const at = [0]; for (let i = 0; i < n; i++) at.push(at[i] + (i % 2 ? KUFIC_LANES.gap : KUFIC_LANES.stroke)); return at; };
+  const ax = acc(rows[0].length), ay = acc(rows.length);
+  const W = ax[ax.length - 1], H = ay[ay.length - 1];
+  const k = KUFIC_SIZE / Math.max(W, H);
+  const r = (v: number) => Math.round(v * 10000) / 10000;
+  return { x: ax.map((v) => r(v * k + (KUFIC_SIZE - W * k) / 2)), y: ay.map((v) => r(v * k + (KUFIC_SIZE - H * k) / 2)) };
+}
+
+/** مسارات SVG للرمز (الخلايا المتجاورة مدموجة حتى لا تظهر فواصل عند التصغير)، داخل مربع KUFIC_SIZE */
 export function kuficPaths(rows: readonly string[] = KUFIC): { ink: string; dot: string } {
+  const { x: X, y: Y } = kuficLanes(rows);
   let ink = '';
   let dot = '';
   rows.forEach((r, y) => {
@@ -33,7 +51,7 @@ export function kuficPaths(rows: readonly string[] = KUFIC): { ink: string; dot:
       if (ch === '.') { x++; continue; }
       let e = x;
       while (e + 1 < r.length && r[e + 1] === ch) e++;
-      const d = `M${x} ${y}h${e - x + 1}v1h-${e - x + 1}z`;
+      const d = `M${X[x]} ${Y[y]}H${X[e + 1]}V${Y[y + 1]}H${X[x]}z`;
       if (ch === 'o') dot += d; else ink += d;
       x = e + 1;
     }

diff --git a/docs/BRAND.md b/docs/BRAND.md
@@ -9,11 +9,12 @@
 الشعار النصي: «التدريس بنهجٍ أذكى.»
 
 ## الرمز — «نهج» بالكوفي المربّع
-- الكلمة كاملة مبنيّة على **شبكة ١٠×١٠** بالخط الكوفي المربّع: «ن» ثم «هـ» ثم «ج» على **خط قاعدة واحد** يمتد عبر الكلمة.
+- الكلمة كاملة مبنيّة على **شبكة ١١×١٣** بالخط الكوفي المربّع: «ن» قائمة، و«ـهـ» بعروتين فوق القاعدة وتحتها، و«ج» برأسها ونقطتها وذيلها الذي يمتد **تحت الكلمة كلها** كخط ثانٍ يحملها.
+- الخطوط أعرض من الفراغات (نسبة ٥:٣) فيبدو الرمز ثقيلاً ومقروءاً حتى ١٦px.
 - **الفكرة:**
   1. **الكوفي وُلد في الكوفة** — خط عراقي أصيل يحمل الهوية دون زخرفة.
   2. **الشبكة = السجل والجدول**: خلايا كخلايا سجل الدرجات وجدول الحصص، فالشعار هو أداة المدرّس نفسها.
-  3. **خط القاعدة = النهج**: الطريق المستقيم الذي تقف عليه الحروف كلها.
+  3. **خط القاعدة وذيل الجيم = النهج**: سطران مستقيمان، تقف الحروف على الأول ويحمل الثاني الكلمة كلها.
   4. **خلية ذهبية واحدة** = نقطة «ن»: الطالب/الفكرة المضيئة، وهي التوقيع الذي يتكرر في الأيقونات وعلامات العناوين.
 - يُقرأ «نهج» في المقاسات الكبيرة، ويبقى رمزاً هندسياً واضحاً حتى ١٦px (حواف حادة على الشبكة).
 - **المصدر الوحيد:** `packages/shared/src/brand.ts` (`KUFIC` صفوف الشبكة، `kuficPaths`، الألوان، `markSvg`). كلمة «نَهج» النصية مستخرجة بالتشكيل الصحيح: `brand/wordmark.py`.
